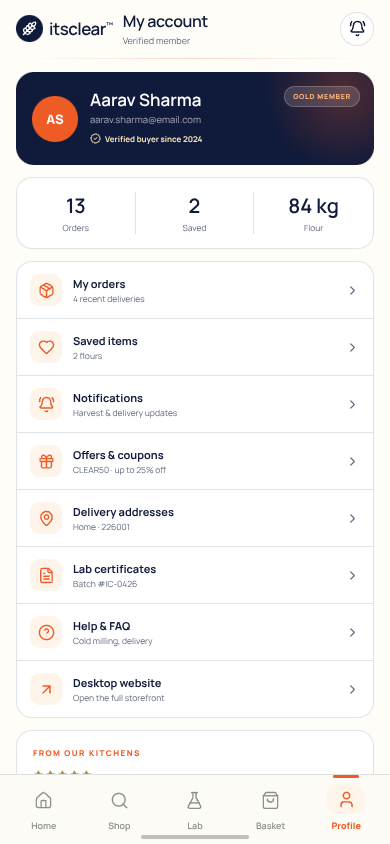
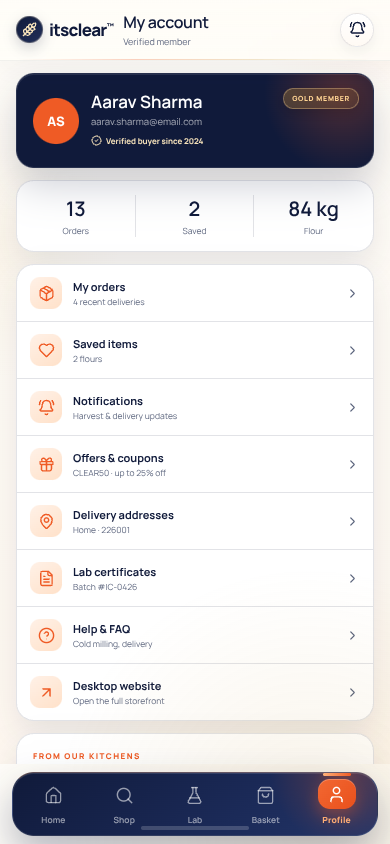
Add v3.2 mobile-first premium phone UI polish

diff --git a/src/phone-premium.css b/src/phone-premium.css
@@ -1,0 +1,137 @@
+
+/* ============================================================
+   v3.2 — mobile-first premium polish for the native phone app
+   Exact packaging, flows and UI-only scope stay unchanged.
+   ============================================================ */
+:root {
+  --pa-orange: #ef5b25;
+  --pa-ember: #f26832;
+  --pa-amber: #ffb37a;
+  --pa-navy-2: #1b2a58;
+  --pa-premium-shadow: 0 14px 34px rgba(16, 26, 58, .10);
+}
+
+.pa-stage { background: radial-gradient(75% 70% at 12% 8%, #22346a, #0b1230 58%, #060a1c); }
+.pa-stage::after { content: ''; position: absolute; width: 520px; height: 520px; right: -180px; bottom: -240px; border-radius: 50%; background: radial-gradient(circle, rgba(198, 146, 47, .11), transparent 70%); pointer-events: none; }
+.pa-device { background: var(--pa-cream); box-shadow: 0 45px 110px rgba(0, 0, 0, .62), 0 0 0 1px rgba(255, 255, 255, .10) inset, 0 0 0 6px rgba(198, 146, 47, .05); }
+.pa-scroll {
+  min-height: 0;
+  padding-bottom: 10px;
+  background:
+    radial-gradient(58% 18% at 100% 0, rgba(239, 91, 37, .075), transparent 72%),
+    radial-gradient(42% 24% at 0% 32%, rgba(198, 146, 47, .06), transparent 74%),
+    linear-gradient(180deg, #fffdf8 0%, #fffbf5 45%, #fff8f0 100%);
+  box-shadow: inset 0 1px 0 rgba(255, 255, 255, .8);
+}
+
+/* Frosted native app bar */
+.pa-appbar { padding: 11px 16px 12px; background: linear-gradient(180deg, rgba(255, 253, 248, .97), rgba(255, 253, 248, .83)); backdrop-filter: blur(22px) saturate(1.45); -webkit-backdrop-filter: blur(22px) saturate(1.45); border-bottom: 1px solid rgba(16, 26, 58, .06); box-shadow: 0 10px 26px rgba(16, 26, 58, .045); }
+.pa-appbar::after { left: 18px; right: 18px; background: linear-gradient(90deg, transparent, rgba(239, 91, 37, .28), rgba(198, 146, 47, .24), transparent); }
+.pa-logo { font-weight: 800; letter-spacing: -.045em; }
+.pa-logo-mark { background: linear-gradient(145deg, #101a3a, #22305a); color: #f7e3bb; box-shadow: inset 0 0 0 1px rgba(247, 227, 187, .25), 0 5px 14px rgba(16, 26, 58, .20); }
+.pa-round { background: linear-gradient(180deg, #fff, #fffaf4); border-color: rgba(16, 26, 58, .10); color: var(--pa-ink); box-shadow: 0 5px 14px rgba(16, 26, 58, .06), inset 0 1px 0 #fff; }
+.pa-round:hover { border-color: rgba(239, 91, 37, .35); }
+.pa-location { width: fit-content; max-width: calc(100% - 32px); margin: 0 16px 12px; padding: 6px 10px; border: 1px solid var(--pa-line); border-radius: 999px; background: rgba(255, 255, 255, .82); box-shadow: 0 5px 16px rgba(16, 26, 58, .05); color: var(--pa-ink); font-weight: 700; }
+.pa-location > svg { color: var(--pa-orange); }
+.pa-location button { color: var(--pa-orange); }
+
+/* Hero: soft light, foil pill, refined CTA and pouch shadow */
+.pa-hero { border-radius: 24px; background-image: radial-gradient(90% 90% at 88% 8%, rgba(239, 91, 37, .07), transparent 62%); box-shadow: 0 20px 45px rgba(16, 26, 58, .13), inset 0 1px 0 rgba(255, 255, 255, .9); }
+.pa-hero::before { width: 300px; height: 300px; right: -90px; top: -110px; background: radial-gradient(circle, rgba(239, 91, 37, .17), transparent 70%); }
+.pa-hero-pill { background: linear-gradient(135deg, #fff6ec, #fff0df); border-color: rgba(198, 146, 47, .28); box-shadow: inset 0 1px 0 #fff, 0 3px 10px rgba(198, 146, 47, .08); }
+.pa-hero-copy h1 { font-weight: 800; letter-spacing: -.045em; }
+.pa-hero-btn { background: linear-gradient(135deg, var(--pa-ember), #e9501c); box-shadow: 0 9px 20px rgba(239, 91, 37, .30), inset 0 1px 0 rgba(255, 255, 255, .26); border-radius: 999px; }
+.pa-hero-secondary { background: rgba(255, 255, 255, .92); box-shadow: 0 4px 12px rgba(16, 26, 58, .07); }
+.pa-hero-pack { filter: drop-shadow(0 18px 18px rgba(16, 26, 58, .22)) drop-shadow(0 2px 0 rgba(198, 146, 47, .22)); }
+.pa-hero-viewer { background: rgba(255, 255, 255, .94); border-color: rgba(16, 26, 58, .10); box-shadow: 0 10px 24px rgba(16, 26, 58, .10); }
+.pa-trust { background: rgba(255, 255, 255, .88); border-color: rgba(16, 26, 58, .09); box-shadow: 0 5px 15px rgba(16, 26, 58, .05); font-weight: 700; }
+
+/* Quick actions and editorial sections */
+.pa-quick { border-radius: 18px; background: linear-gradient(180deg, #fff, #fffaf4); border-color: rgba(16, 26, 58, .09); box-shadow: var(--pa-premium-shadow); }
+.pa-quick > span { background: linear-gradient(145deg, #fff1e7, #ffe1c9); color: var(--pa-orange); box-shadow: inset 0 0 0 1px rgba(239, 91, 37, .10); }
+.pa-section-head h2 { font-family: 'Fraunces Variable', Georgia, serif; font-weight: 650; letter-spacing: -.045em; color: var(--pa-ink); }
+.pa-section-head .pa-eyebrow { display: inline-flex; align-items: center; gap: 6px; }
+.pa-section-head .pa-eyebrow::before { content: ''; width: 16px; height: 2px; border-radius: 2px; background: linear-gradient(90deg, var(--pa-orange), var(--pa-gold)); }
+.pa-section-head > button { font-weight: 800; }
+.pa-story-card { border-radius: 20px; box-shadow: 0 16px 34px rgba(16, 26, 58, .12); }
+.pa-story-card::after { background: linear-gradient(180deg, rgba(7, 12, 32, 0) 22%, rgba(7, 12, 32, .90)); }
+.pa-story-overlay small { color: #ffd0a3; }
+.pa-promise-card { border: 1px solid rgba(255, 255, 255, .10); box-shadow: 0 22px 44px rgba(16, 26, 58, .24), inset 0 1px 0 rgba(255, 255, 255, .12); }
+.pa-promise-card::after { content: ''; position: absolute; right: -46px; bottom: -82px; width: 180px; height: 180px; border: 1px solid rgba(198, 146, 47, .15); border-radius: 50%; pointer-events: none; }
+.pa-promise-copy strong { font-family: 'Fraunces Variable', Georgia, serif; font-weight: 650; letter-spacing: -.035em; }
+.pa-promise-copy button { background: linear-gradient(135deg, var(--pa-ember), #e9501c); box-shadow: 0 8px 18px rgba(239, 91, 37, .28), inset 0 1px 0 rgba(255, 255, 255, .24); }
+
+/* Product cards */
+.pa-product { border-radius: 18px; border-color: rgba(16, 26, 58, .10); box-shadow: 0 10px 28px rgba(16, 26, 58, .075), inset 0 1px 0 rgba(255, 255, 255, .9); }
+.pa-product-media { background: radial-gradient(70% 60% at 50% 28%, rgba(255, 255, 255, .65), transparent 72%), linear-gradient(180deg, #fffaf3, #fff3e8); }
+.pa-tag { background: linear-gradient(135deg, #101a3a, #22305a); color: #f7e3bb; border: 1px solid rgba(198, 146, 47, .32); box-shadow: 0 5px 14px rgba(16, 26, 58, .18), inset 0 1px 0 rgba(255, 255, 255, .10); letter-spacing: .08em; }
+.pa-product-body > strong { font-weight: 800; letter-spacing: -.03em; }
+.pa-stars { color: #d79a2d; filter: drop-shadow(0 1px 1px rgba(198, 146, 47, .18)); }
+.pa-product-foot b { font-weight: 800; letter-spacing: -.04em; }
+.pa-add { background: linear-gradient(135deg, var(--pa-ember), #e9501c); box-shadow: 0 7px 16px rgba(239, 91, 37, .28), inset 0 1px 0 rgba(255, 255, 255, .24); }
+
+/* Floating dark glass dock — native, premium, thumb-friendly */
+.pa-tabbar {
+  height: 66px;
+  margin: 8px 12px 10px;
+  padding: 6px 5px 8px;
+  border-radius: 22px;
+  border: 1px solid rgba(255, 255, 255, .12);
+  border-top-color: rgba(255, 179, 122, .32);
+  background: linear-gradient(140deg, #101a3a, var(--pa-navy-2) 62%, #233568);
+  box-shadow: 0 18px 40px rgba(16, 26, 58, .32), inset 0 1px 0 rgba(255, 255, 255, .12);
+  backdrop-filter: blur(18px);
+  -webkit-backdrop-filter: blur(18px);
+  overflow: hidden;
+}
+.pa-tabbar::before { content: ''; position: absolute; width: 160px; height: 160px; right: -52px; top: -84px; border-radius: 50%; background: radial-gradient(circle, rgba(239, 91, 37, .28), transparent 70%); pointer-events: none; }
+.pa-tabbar::after { background: rgba(255, 255, 255, .36); opacity: .5; }
+.pa-tabbar button { color: rgba(255, 255, 255, .56); z-index: 1; }
+.pa-tabbar button.on { color: #fff; }
+.pa-tabbar button.on::before { top: -6px; width: 28px; background: linear-gradient(90deg, var(--pa-amber), var(--pa-orange)); box-shadow: 0 0 10px rgba(239, 91, 37, .55); }
+.pa-tabbar button.on .pa-tab-icon { background: linear-gradient(135deg, var(--pa-ember), #e9501c); color: #fff; box-shadow: 0 7px 16px rgba(239, 91, 37, .36), inset 0 1px 0 rgba(255, 255, 255, .25); }
+.pa-tabbar button.on small { color: var(--pa-amber); }
+.pa-tabbar small { font-size: 8.5px; font-weight: 600; letter-spacing: .01em; }
+.pa-tab-icon i { border-color: #101a3a; box-shadow: 0 2px 8px rgba(0, 0, 0, .25); }
+
+/* Buttons, chips, forms and cards */
+.pa-primary { background: linear-gradient(135deg, #101a3a, var(--pa-navy-2)); box-shadow: 0 12px 26px rgba(16, 26, 58, .22), inset 0 1px 0 rgba(255, 255, 255, .12); border-radius: 999px; font-weight: 800; letter-spacing: .01em; }
+.pa-primary:hover { background: linear-gradient(135deg, #16224a, #24376c); }
+.pa-chips button.on, .pa-sort button.on, .pa-sizes button.on { background: linear-gradient(135deg, var(--pa-ember), #e9501c); box-shadow: 0 6px 16px rgba(239, 91, 37, .25), inset 0 1px 0 rgba(255, 255, 255, .22); }
+.pa-field input { border-radius: 12px; background: rgba(255, 255, 255, .82); box-shadow: inset 0 1px 2px rgba(16, 26, 58, .04); }
+.pa-field input:focus { border-color: var(--pa-orange); box-shadow: 0 0 0 3px rgba(239, 91, 37, .10); }
+.pa-slot-row button.on { border-color: rgba(239, 91, 37, .50); background: linear-gradient(180deg, #fff, #fff3e9); box-shadow: 0 6px 16px rgba(239, 91, 37, .09); }
+.pa-pay-list > button.on > i { background: linear-gradient(135deg, var(--pa-ember), #e9501c); border-color: var(--pa-orange); }
+.pa-profile-card { border: 1px solid rgba(255, 255, 255, .10); box-shadow: 0 18px 38px rgba(16, 26, 58, .20), inset 0 1px 0 rgba(255, 255, 255, .10); }
+.pa-profile-stats, .pa-menu, .pa-cert, .pa-bill, .pa-order-card, .pa-review-mini, .pa-nutri { border-radius: 18px; box-shadow: var(--pa-premium-shadow); }
+.pa-menu-row > span { background: linear-gradient(145deg, #fff1e7, #ffe1c9); color: var(--pa-orange); }
+.pa-member-badge { background: linear-gradient(135deg, rgba(198, 146, 47, .30), rgba(198, 146, 47, .12)); color: #ffd493; border-color: rgba(255, 212, 147, .35); box-shadow: 0 4px 12px rgba(0, 0, 0, .14); }
+.pa-cert-seal { box-shadow: 0 8px 18px rgba(47, 122, 69, .18); }
+.pa-checkout-secure { border: 1px solid rgba(47, 122, 69, .12); box-shadow: 0 6px 16px rgba(47, 122, 69, .07); }
+
+/* Real phones: safe-area dock and compact geometry */
+@media (max-width: 520px) {
+  .pa-scroll { background-attachment: scroll; }
+  .pa-tabbar { height: 64px; margin-bottom: calc(8px + env(safe-area-inset-bottom, 0px)); }
+}
+@media (max-width: 370px) {
+  .pa-hero-copy { left: 16px; width: 54%; }
+  .pa-hero-copy h1 { font-size: 20px; }
+  .pa-hero-pill { font-size: 6.6px; letter-spacing: .05em; }
+  .pa-hero-pack { width: 128px; height: 190px; }
+  .pa-hero-btn { padding: 6px 7px; font-size: 7.6px; }
+  .pa-hero-secondary { padding: 5px 6px; font-size: 6.8px; }
+  .pa-hero-viewer { font-size: 7.2px; }
+  .pa-quick-grid { gap: 6px; padding: 0 12px 6px; }
+  .pa-quick { padding: 10px 3px; border-radius: 14px; }
+  .pa-quick > span { width: 28px; height: 28px; border-radius: 9px; }
+  .pa-quick strong { font-size: 8px; }
+  .pa-quick small { font-size: 6.4px; }
+  .pa-section-head { padding-left: 14px; padding-right: 14px; }
+  .pa-section-head h2 { font-size: 20px; }
+  .pa-cat-row, .pa-rail, .pa-trust-row, .pa-chips, .pa-story-grid, .pa-viewer-specs { padding-left: 12px; padding-right: 12px; }
+  .pa-promise-card { margin-left: 12px; margin-right: 12px; padding: 16px 12px; }
+  .pa-promise-copy strong { font-size: 18px; }
+  .pa-promise-pack { width: 76px; height: 102px; }
+  .pa-tabbar small { font-size: 8px; }
+}

diff --git a/src/PhoneApp.jsx b/src/PhoneApp.jsx
@@ -14,6 +14,7 @@ import {
 } from './data.js'
 import './phone.css'
 import './phone-theme.css'
+import './phone-premium.css'
 
 const money = (n) => `₹${Number(n).toLocaleString('en-IN')}`
 
@@ -588,7 +589,7 @@ export default function PhoneApp() {
   return (
     <div className="pa-stage">
       <div className="pa-stage-glow" />
-      <div className="pa-side-note"><span className="pa-eyebrow pa-eyebrow--light">itsclear™ · FULL ECOMMERCE APP UI</span><h2 className="display">The honest atta store, <em>in your pocket.</em></h2><p>A premium native-style shopping app: quick actions, editorial stories, 360° pack inspector, verified lab certificate, Basket, Checkout, Orders, Wishlist, Offers and Profile — built around the exact black-and-cream packaging from the reference site.</p><a href="?web=1">View desktop site <ArrowUpRight size={14} /></a></div>
+      <div className="pa-side-note"><span className="pa-eyebrow pa-eyebrow--light">itsclear™ · FULL ECOMMERCE APP UI</span><h2 className="display">The honest atta store, <em>in your pocket.</em></h2><p>A premium mobile-first shopping app: frosted app bar, floating glass dock, quick actions, editorial stories, 360° pack inspector, verified lab certificate, Basket, Checkout, Orders and Profile — built around the exact black-and-cream packaging from the reference site.</p><a href="?web=1">View desktop site <ArrowUpRight size={14} /></a></div>
       <div className="pa-device">
         <div className="pa-island" />
         <div className="pa-status"><span>9:41</span><div><span className="pa-signal">▮▮▮</span><span className="pa-wifi">◕</span><span className="pa-battery" /></div></div>

diff --git a/README.md b/README.md
@@ -4,7 +4,9 @@ A complete, polished **ecommerce app UI** for the [itsclear.in](https://itsclear
 
 The default route is a native-style **phone app**. On desktop it appears inside a 390 × 844 device frame with a side note; on a phone-sized viewport it fills the screen. The responsive desktop storefront is also available at **`?web=1`**.
 
-The latest **v3.1 polish** adds a cleaner hero, four quick actions, editorial story cards, a dark “clear standard” promise card, product ratings, viewer tabs and spec tiles, a lab verification seal, a gold-member badge, a secure-checkout note, an order progress pill and a floating desktop purity-score card — without changing the exact packaging or the UI-only scope.
+The **v3.1 polish** adds a cleaner hero, four quick actions, editorial story cards, a dark “clear standard” promise card, product ratings, viewer tabs and spec tiles, a lab verification seal, a gold-member badge, a secure-checkout note, an order progress pill and a floating desktop purity-score card — without changing the exact packaging or the UI-only scope.
+
+The latest **v3.2 mobile premium polish** makes the phone experience feel more native and high-end: a frosted app bar, compact delivery chip, floating dark glass dock with an orange active capsule, Fraunces section headings, foil-style product tags, warmer card gradients, gold accents, refined buttons/forms and explicit 360px / 320px geometry. Exact packaging, all existing flows and the UI-only scope remain unchanged.
 
 ## Exact packaging
 
@@ -39,7 +41,7 @@ Requires Node.js 20.19+ and ImageMagick's `convert` / `mogrify` only if regenera
 
 | Area | What it does |
 | --- | --- |
-| **Home** | Screenshot-style hero with exact pouch, orange harvest pill, navy/orange headline, 3-slide pack story, 360° inspector entry, delivery pin, trust pills, 4 quick actions, categories, rated best sellers, editorial story cards, dark promise card, sale countdown, lab promo, calculator shortcut and ranked list. |
+| **Home** | Frosted app bar, delivery chip, floating glass dock, screenshot-style hero with exact pouch, orange harvest pill, navy/orange headline, 3-slide pack story, 360° inspector entry, trust pills, 4 quick actions, categories, rated best sellers with foil tags, editorial story cards, dark promise card, sale countdown, lab promo, calculator shortcut and ranked list. |
 | **Shop** | Search entry, `All / Khapli / Protein / Family / Bundle` filters, featured / price / rating sorting, 5-product grid and 3 monthly bundles. |
 | **360° inspector** | Drag-to-rotate pouch, live angle readout, six exact pack views, filmstrip, Front / Handle / Range tabs, cold-milling spec, 3 spec tiles and reset. |
 | **Product detail** | Gallery, rating row, pack sizes, quantity, wishlist, Overview / Nutrition / Lab report tabs, key facts, related products and add-to-basket. |
@@ -59,16 +61,17 @@ The earlier full desktop storefront is restyled in the same navy / orange / crea
 ## Design system
 
 - **Palette:** warm white `#fffdf8`, paper `#ffffff`, deep navy `#101a3a`, burnt orange `#ef5b25`, wheat gold `#c6922f`.
-- **Type:** self-hosted **Manrope Variable** for bold editorial headings, **DM Sans Variable** for compact UI; Fraunces remains installed for legacy sections.
-- **Details:** 390px device geometry, rounded cards, hairline borders, soft shadows, micro-transitions, safe-area padding, reduced-motion support and no horizontal overflow at phone width.
+- **Type:** self-hosted **Manrope Variable** for bold editorial headings, **DM Sans Variable** for compact UI, and **Fraunces Variable** for premium section titles and promise-card copy.
+- **Native details:** frosted sticky app bar, floating dark glass bottom dock with orange active capsule, compact location chip, foil-style product tags, layered card shadows and gold hairlines.
+- **Details:** 390px device geometry plus verified 360px / 320px layouts, rounded cards, soft shadows, micro-transitions, safe-area padding, reduced-motion support and no horizontal overflow at phone width.
 
 ## Verification
 
-- **26/26 v3.1 headless checks passed** — exact pack assets, all three hero slides with no copy/pouch overlap, quick actions, editorial cards, ratings, 360° viewer tabs/spec tiles, filters, search, product detail, size pricing, gallery, tabs, basket maths, `CLEAR50`, checkout secure note, order progress/tracking, lab seal, profile badge, calculator, all five tabs, desktop purity card, desktop checkout, 390px overflow, images and zero browser errors.
-- Earlier work: **25/25** exact-packaging checks, **78/78** desktop-storefront checks and **27/27** earlier phone-app checks.
+- **30/30 v3.2 headless checks passed** — premium stylesheet, floating dock geometry, clean scroll/dock separation, exact pack assets, all three hero slides with no copy/pouch overlap, quick actions, editorial cards, ratings/foil tags, 360° viewer tabs/spec tiles, filters, search, product detail, size pricing, gallery, tabs, basket maths, `CLEAR50`, checkout, order/tracking, lab seal, profile badge, calculator, all five tabs at 390px, 360px / 320px overflow, desktop purity card, desktop checkout and zero browser errors.
+- Earlier work: **26/26** v3.1 checks, **25/25** exact-packaging checks, **78/78** desktop-storefront checks and **27/27** earlier phone-app checks.
 - Production build passes (`vite v8.3.8`), all six pack PNGs return `200`, and no console/page errors were captured.
 
-Main screenshots: `docs/preview.png` / `docs/preview-phone.png` (presentation), `docs/preview-phone-home.png`, `preview-phone-shop.png`, `preview-phone-product.png`, `preview-phone-viewer.png`, `preview-phone-basket.png`, `preview-phone-checkout.png`, `preview-phone-order.png`, `preview-phone-tracking.png`, `preview-phone-lab.png`, `preview-phone-profile.png`, `docs/preview-desktop.png` and `docs/preview-desktop-checkout.png`.
+Main screenshots: `docs/preview.png` / `docs/preview-phone.png` (presentation), `docs/preview-phone-home.png`, `docs/preview-phone-premium.png` (lower-home premium cards + floating dock), `docs/preview-phone-360.png` (compact phone), `preview-phone-shop.png`, `preview-phone-product.png`, `preview-phone-viewer.png`, `preview-phone-basket.png`, `preview-phone-checkout.png`, `preview-phone-order.png`, `preview-phone-tracking.png`, `preview-phone-lab.png`, `preview-phone-profile.png`, `docs/preview-desktop.png` and `docs/preview-desktop-checkout.png`.
 
 ## Project structure
 
@@ -79,6 +82,7 @@ src/main.jsx                route switch: phone app by default, ?web=1 desktop
 src/PhoneApp.jsx            full phone ecommerce app: tabs, screens, flows + UI state
 src/phone.css               base phone app styles
 src/phone-theme.css         navy/orange theme + v3.1 phone polish, viewer/checkout/list-screen styles
+src/phone-premium.css       v3.2 mobile-first premium look: glass dock, app bar, cards, narrow phones
 src/theme.css               shared brand variables
 src/App.jsx                 desktop storefront home + global state
 src/Views.jsx               desktop Lab / catalog / product views
